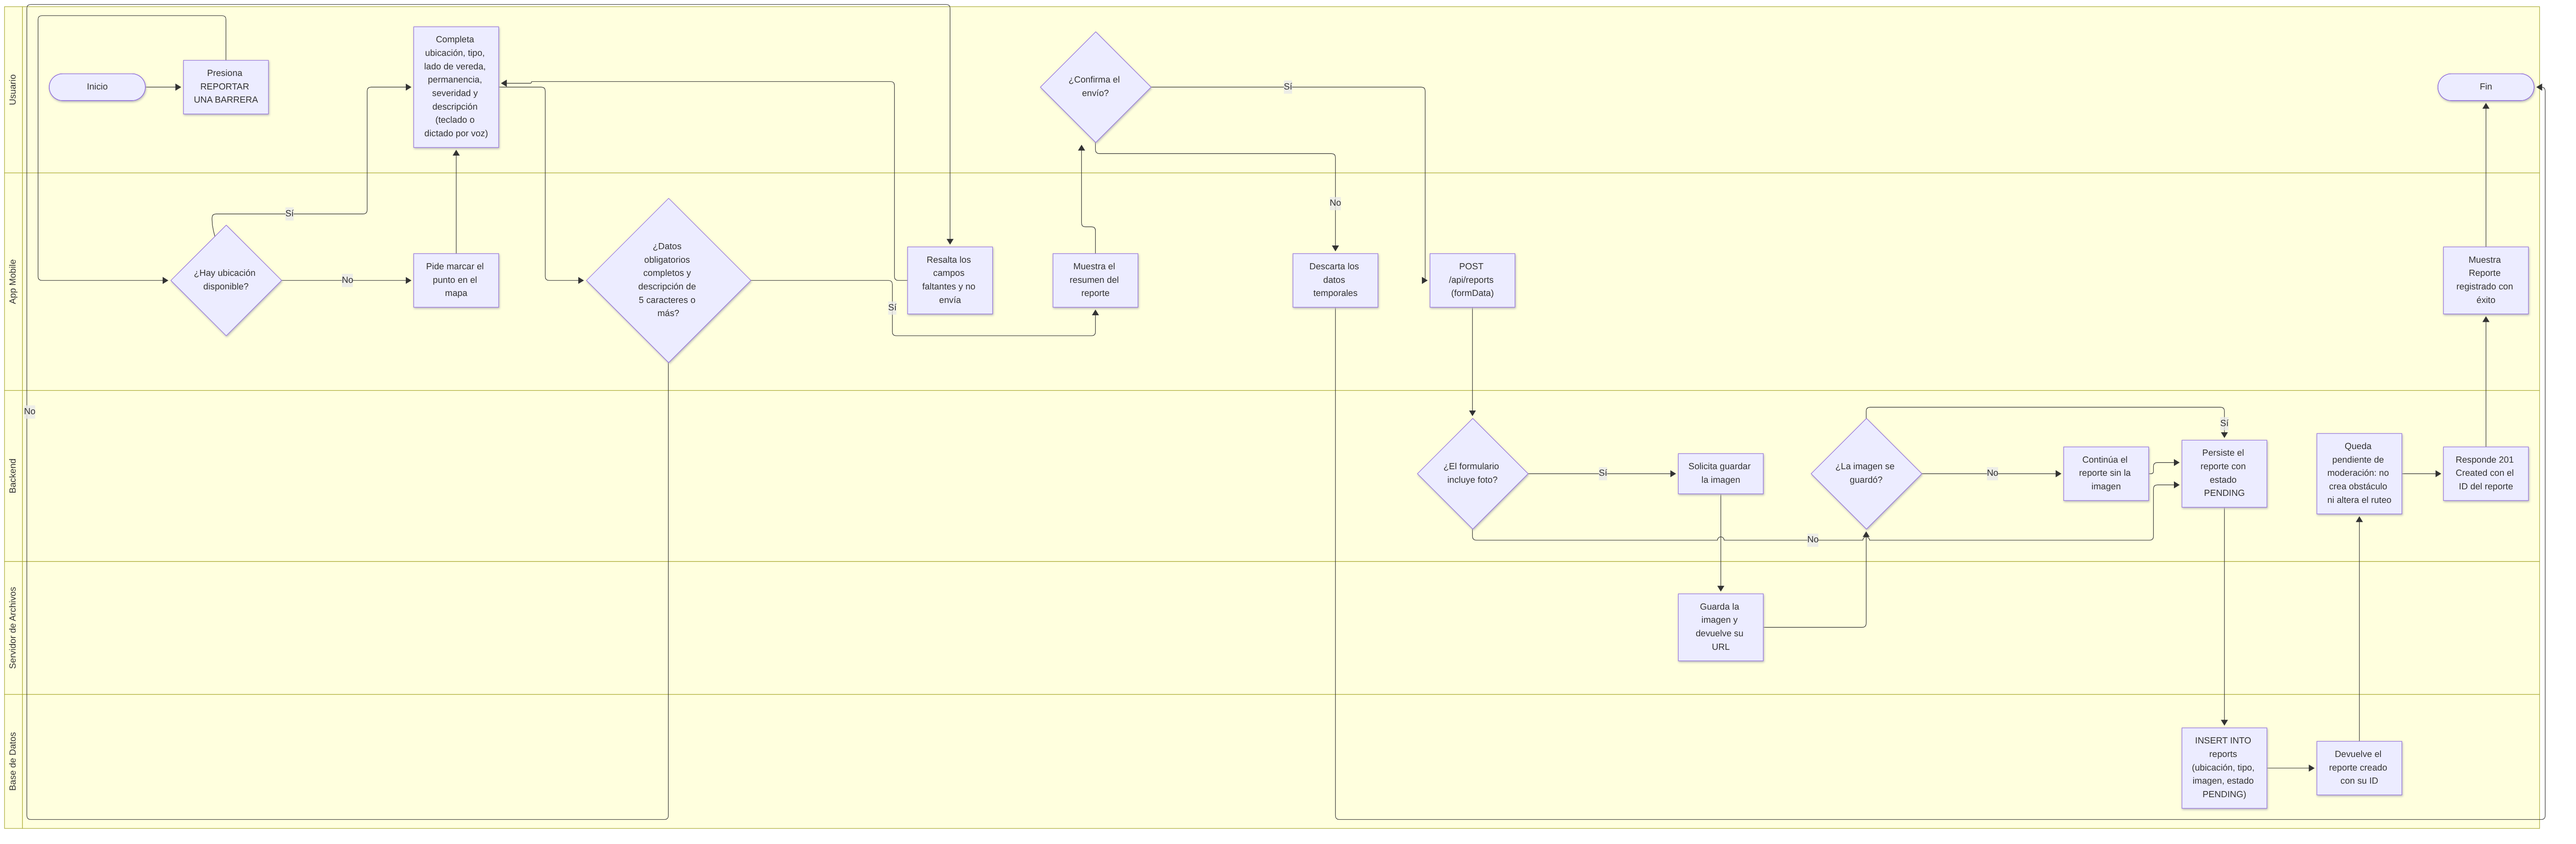
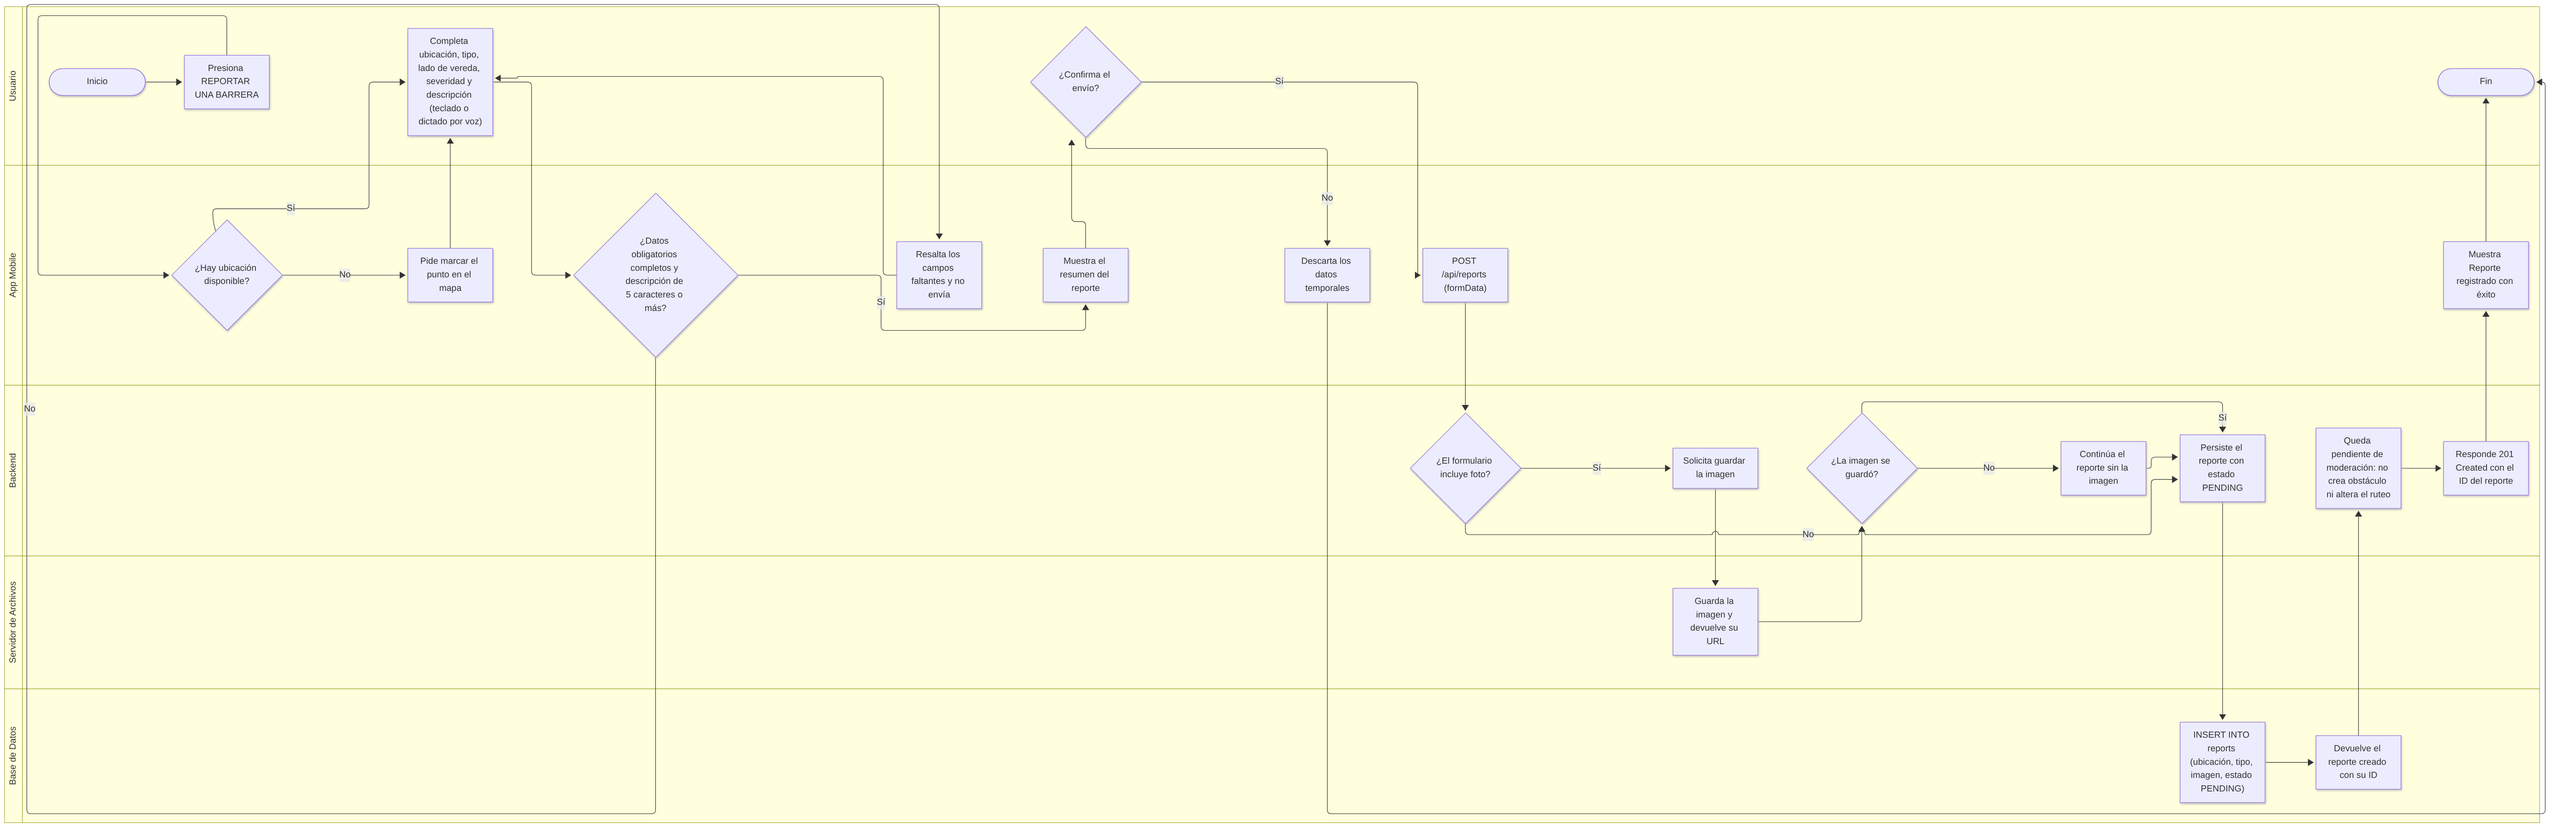
feat(db): crear lugares, rutas, obstaculos y reportes
Cierra el esquema con las cuatro tablas de contenido y el catalogo de tipos de
obstaculo, con dos enums nuevos: obstacle_severity y report_status.

Hallazgo: obstacle_types no existia. Se decidio en #2 y el DER y el doc 09 la
daban por creada, pero ninguna migracion la creaba; se crea y se siembra aca,
que es donde se necesita. Once tipos, con OTHER ultimo y acotado a los reportes.

Decisiones:

- reports.type_id y severity son la percepcion del ciudadano; las mismas
  columnas en obstacles son la decision del moderador (09 §4.5).
- reports.obstacle_id nullable y sin UNIQUE: un obstaculo puede tener varios
  reportes.
- obstacles se cuelga de a lo sumo uno de los tres elementos del grafo, con
  CHECK num_nonnulls <= 1. MISSING_RAMP vive en el cordon.
- ON DELETE CASCADE solo para datos personales; RESTRICT en el resto.
- Sin 'permanencia' en reports: nada la consumia.

DER: tres FK de elemento en obstacles, type_id y severity en reports, y la
relacion del catalogo con los reportes. Diagramas C010 y C012 alineados: se va
'permanencia' y el alta del obstaculo deja de usar report_id.

Closes #5

diff --git a/docs/09-modelo-de-datos.md b/docs/09-modelo-de-datos.md
@@ -102,8 +102,31 @@ del ciclo de vida, y está bien: el ciclo de vida incluye la baja, pero el enum 
 
 | Tabla | Reemplaza | Filas iniciales |
 | --- | --- | --- |
-| `obstacle_types` | `obstacles.type` (`varchar`) | `POTHOLE`, `TREE`, `STEP`, `STEEP_SLOPE`, `NARROWING` |
+| `obstacle_types` | `obstacles.type` (`varchar`) | Las once de abajo |
 | `tutorial_categories` | `tutorials.category` (`varchar(30)`) | Ninguna: se siembran al definir la carga de tutoriales |
+
+Los tipos de obstáculo, en el orden del seed (el portal ordena por `name_es`):
+
+| `code` | `name_es` |
+| --- | --- |
+| `POTHOLE` | Pozo |
+| `BROKEN_PAVEMENT` | Rotura de vereda |
+| `MISSING_SIDEWALK` | Falta tramo de vereda |
+| `CONSTRUCTION` | Obra en la vía |
+| `TREE` | Árbol o raíces |
+| `STEP` | Escalón |
+| `STEEP_SLOPE` | Pendiente excesiva |
+| `NARROWING` | Estrechamiento |
+| `MISSING_RAMP` | Falta rampa |
+| `BLOCKED_PASSAGE` | Paso obstruido |
+| `OTHER` | Otros |
+
+**`OTHER` tiene un uso acotado, a propósito.** Es la salida del ciudadano cuando nada
+encaja, no la del moderador: al crear el obstáculo, el moderador clasifica con el tipo
+que corresponde, así que el dato que alimenta el ruteo y las estadísticas no arrastra
+"otros". Si `OTHER` empieza a aparecer seguido con el mismo motivo en la descripción,
+esa es la señal de que falta un tipo en el catálogo — y agregarlo es un `INSERT`, no
+una migración, porque el catálogo es datos.
 
 **`obstacles.type` va a catálogo** porque el tipo no es solo una etiqueta: va a llevar
 atributos (nombre para mostrar, y más adelante su efecto en el ruteo) y va a crecer
@@ -196,6 +219,73 @@ Dos consecuencias que se desprenden de esos dibujos y que conviene tener present
 - **Una vereda se corta en cada nodo.** El importador no puede mapear "una way de OSM =
   una vereda": tiene que cortar la way en cada nodo, incluidos los que crea un cruce a
   mitad de cuadra. Si no, la topología queda desconectada en esos puntos.
+
+### 4.5 Reporte y obstáculo
+
+Son dos tablas distintas porque son dos cosas distintas, y comparten dos columnas con
+el mismo nombre, lo que conviene explicar de entrada:
+
+| | `reports.type_id` / `reports.severity` | `obstacles.type_id` / `obstacles.severity` |
+| --- | --- | --- |
+| Qué representan | La **percepción** del ciudadano que reportó | La **decisión** del moderador al publicar |
+| Para qué sirven | Que el moderador sepa qué le pareció ver, y estadística de lo que la gente reporta | Alimentan el mapa, el ruteo y las estadísticas del sistema |
+| Pueden ser `OTHER` | Sí | No: el moderador clasifica con el tipo que corresponde |
+
+Sin esa distinción, las columnas parecen duplicadas. No lo están: el reporte guarda el
+insumo, el obstáculo guarda el resultado, y compararlos es lo que permite ver dónde la
+percepción ciudadana y la clasificación oficial no coinciden.
+
+**Cardinalidad.** Un reporte nace sin obstáculo y puede no tenerlo nunca. Un obstáculo,
+en cambio, puede tener **varios** reportes apuntándolo: varias personas reportan el
+mismo pozo. Entonces la columna vive en el lado que se repite —`reports.obstacle_id`,
+nullable y sin `UNIQUE`— y no al revés. Un único `obstacles.report_id` no podría
+representar dos reportes del mismo obstáculo sin duplicar el obstáculo.
+
+**El flujo de aprobación** (C012) crea el obstáculo y, en la misma transacción, marca
+el reporte: `status = 'APPROVED'` y `obstacle_id` con el id nuevo. Aprobar significa
+crear el obstáculo; no hay estado aprobado sin obstáculo.
+
+**Los duplicados** no necesitan diseño propio en el MVP: el moderador aprueba uno y
+los demás se marcan `REJECTED`, que ya es el estado previsto para "duplicado". Si más
+adelante quieren agruparlos, la columna permite que varios reportes apunten al mismo
+obstáculo; se agrega en el portal, no en el esquema.
+
+**Dónde cuelga un obstáculo.** De a lo sumo uno de los tres elementos primitivos:
+`sidewalk_id`, `kerb_node_id` o `crossing_id`, con
+`CHECK (num_nonnulls(...) <= 1)`. Tres columnas y un `CHECK`, en lugar de un par
+polimórfico `element_type` + `element_id`, que se ve más prolijo pero pierde la
+integridad referencial: nada impediría apuntar a un id que no existe.
+
+No es un detalle teórico: **`MISSING_RAMP` vive en el cordón**, no en la vereda. La
+rampa es la pieza que une vereda y calzada, y en el modelo es el `kerb_node`. Un
+esquema que solo permitiera colgar obstáculos de veredas dejaría sin lugar el tipo más
+específico de una aplicación de accesibilidad.
+
+Colar de **cero** elementos es válido: el `geom` del obstáculo es la fuente de verdad
+de dónde está. El vínculo con el elemento es un enriquecimiento que el portal resuelve
+con el punto, y existe para que el ruteo pueda penalizar el elemento correcto.
+
+**Obstáculo y nivel de accesibilidad no se reemplazan.** Un obstáculo es un **evento**
+—tiene fecha, autor, severidad y un ciclo de vida que termina al resolverse—; el nivel
+es el **estado actual** del elemento. Si una rampa rota se resolviera solo bajando el
+nivel del cordón a `NONE`, se perdería cuándo se rompió, cuántas rampas rotas hubo en
+el año, y alguien tendría que acordarse de subir el nivel cuando se arregle. Lo que
+corresponde es crear el obstáculo y, si la barrera vuelve el paso intransitable, bajar
+el nivel también: son dos datos complementarios.
+
+### 4.6 Rutas guardadas
+
+`saved_routes` guarda **solo los extremos**, y eso es deliberado: **no se agrega una
+columna con la geometría del recorrido.**
+
+La razón es la promesa del producto. Si alguien guarda "casa → escuela" y el sistema
+almacena el camino calculado, ese camino puede volverse intransitable a la mitad —un
+obstáculo nuevo, una vereda rota— y la aplicación estaría mandando a la persona por un
+recorrido que ya no existe. Guardar el punto de partida y el de llegada obliga a
+recalcular cada vez, con los obstáculos y los pesos del momento.
+
+La consecuencia aceptada: el mismo par de extremos puede dar caminos distintos en
+momentos distintos. Eso no es un defecto, es el comportamiento correcto.
 
 ## 5. Administrar un enum
 
@@ -304,12 +394,10 @@ impide escribir `PENDING → RESOLVED`; eso no es trabajo del esquema.
 - **Pesos de ruteo.** Cuánto penaliza un nivel de accesibilidad, si un tipo de
 obstáculo bloquea o penaliza, y cómo se combinan. Los catálogos están listos para
 recibir esas columnas cuando se decida.
-- **Qué guarda un reporte.** El diagrama de actividades de C010
-  ([04-act-C010.mmd](diagrams/04-act-C010.mmd)) hace que el usuario complete "tipo" y
-  "lado de vereda", y `reports` no tiene columnas para ninguno de los dos. Es una
-  inconsistencia previa a este documento y se resuelve al definir la migración de
-  `reports`: o el reporte guarda esos datos como preclasificación para el moderador, o
-  el diagrama describe solo una ayuda de la interfaz.
+- **Pesos de ruteo.** Cuánto penaliza un nivel de accesibilidad, si un tipo de
+  obstáculo bloquea o penaliza, y cómo se combinan. Los catálogos están listos para
+  recibir esas columnas cuando se decida. Mientras tanto, el diagrama de C012 asume un
+  `sidewalks.weight` que todavía no existe.
 - **La identidad de los cruces para reimportar.** `sidewalks` guarda su `osm_way_id`,
   pero `crossings` no tiene ningún identificador externo: si el importador se vuelve a
   correr, no puede reconocer un cruce que ya existe salvo comparando geometría. Se
